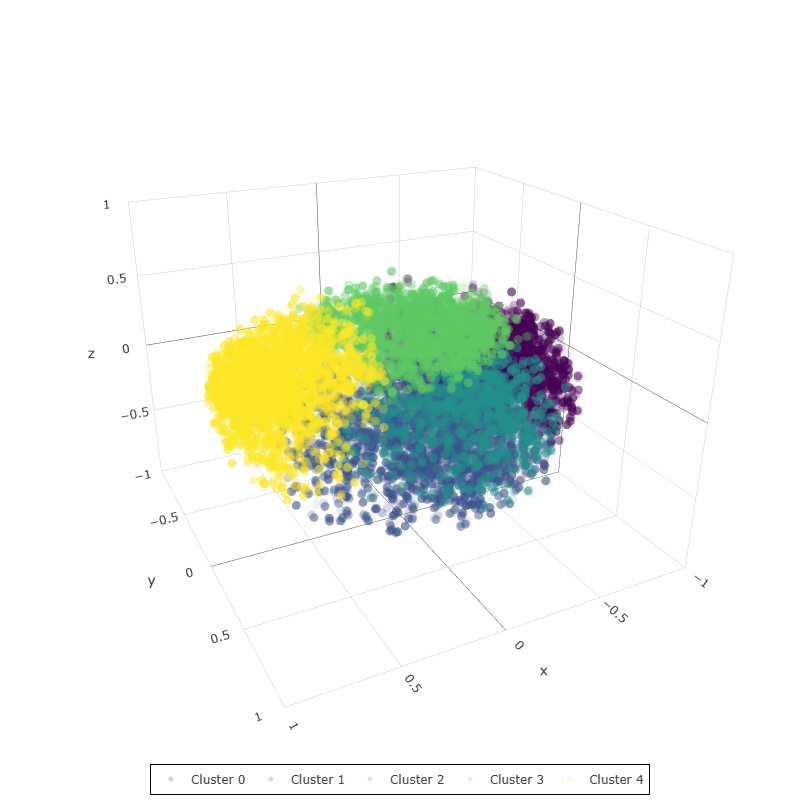
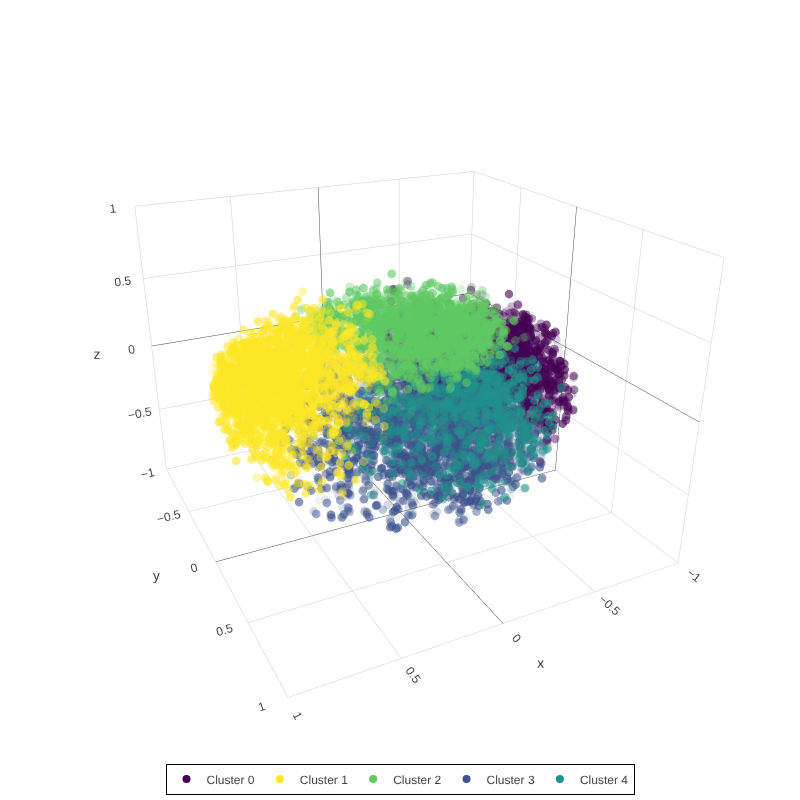
figure 3 legend in X^sim cluster numbering

diff --git a/main/code/02_cluster_figure3_legend.py b/main/code/02_cluster_figure3_legend.py
@@ -1,0 +1,52 @@
+"""
+Figure 3 of the paper (3d_embedding_txtimg.png) with the legend in the cluster numbering of the similarity variables
+similarity_cluster_k (X^sim_k, Tables 8 to 10), which Tables 2, 4 and 9 also use.
+
+The 3D plot of 02_cluster_centroid_products.ipynb numbers the clusters by the k-means run in that notebook. Its clusters
+0, 1, 2, 3, 4 are the clusters 0, 3, 4, 2, 1 of similarity_cluster_k (01_1_create_dataset_txt_img.ipynb): all rows of the
+products closest to each centroid (collage_cluster_img_<k>.png) have their highest similarity in the mapped cluster.
+The figure is redrawn from the plotly output saved in the notebook; only the legend changes (numbering, order and
+opaque markers). The static export requires kaleido and Chrome or Chromium.
+
+Run from main/code: python 02_cluster_figure3_legend.py
+"""
+import json
+
+import plotly.graph_objects as go
+import plotly.io as pio
+
+NOTEBOOK = "02_cluster_centroid_products.ipynb"
+OUTPUT = "../output/02_cluster_centroid_products/3d_embedding_txtimg.png"
+H2S = [0, 3, 4, 2, 1]  # cluster of 02_cluster_centroid_products -> k of similarity_cluster_k
+
+with open(NOTEBOOK, encoding="utf-8") as f:
+    nb = json.load(f)
+# the single-panel 3D plot of the text + image embeddings
+cell = next(
+    c
+    for c in nb["cells"]
+    if c["cell_type"] == "code"
+    and "kmeans_txtimg_labels == cluster_id" in "".join(c["source"])
+    and "make_subplots(rows=1, cols=1" in "".join(c["source"])
+)
+saved = next(o["data"]["application/vnd.plotly.v1+json"] for o in cell["outputs"] if "data" in o)
+fig = pio.from_json(json.dumps(saved))
+assert [t.name for t in fig.data] == [f"Cluster {h}" for h in range(5)]
+
+colors = [t.marker.color for t in fig.data]
+for h, trace in enumerate(fig.data):
+    trace.name = f"Cluster {H2S[h]}"
+    trace.showlegend = False
+for k in range(5):
+    fig.add_trace(
+        go.Scatter3d(
+            x=[None],
+            y=[None],
+            z=[None],
+            mode="markers",
+            marker=dict(size=8, color=colors[H2S.index(k)], opacity=1),
+            name=f"Cluster {k}",
+        )
+    )
+fig.write_image(OUTPUT, width=800, height=800)
+print(f"wrote {OUTPUT}")
